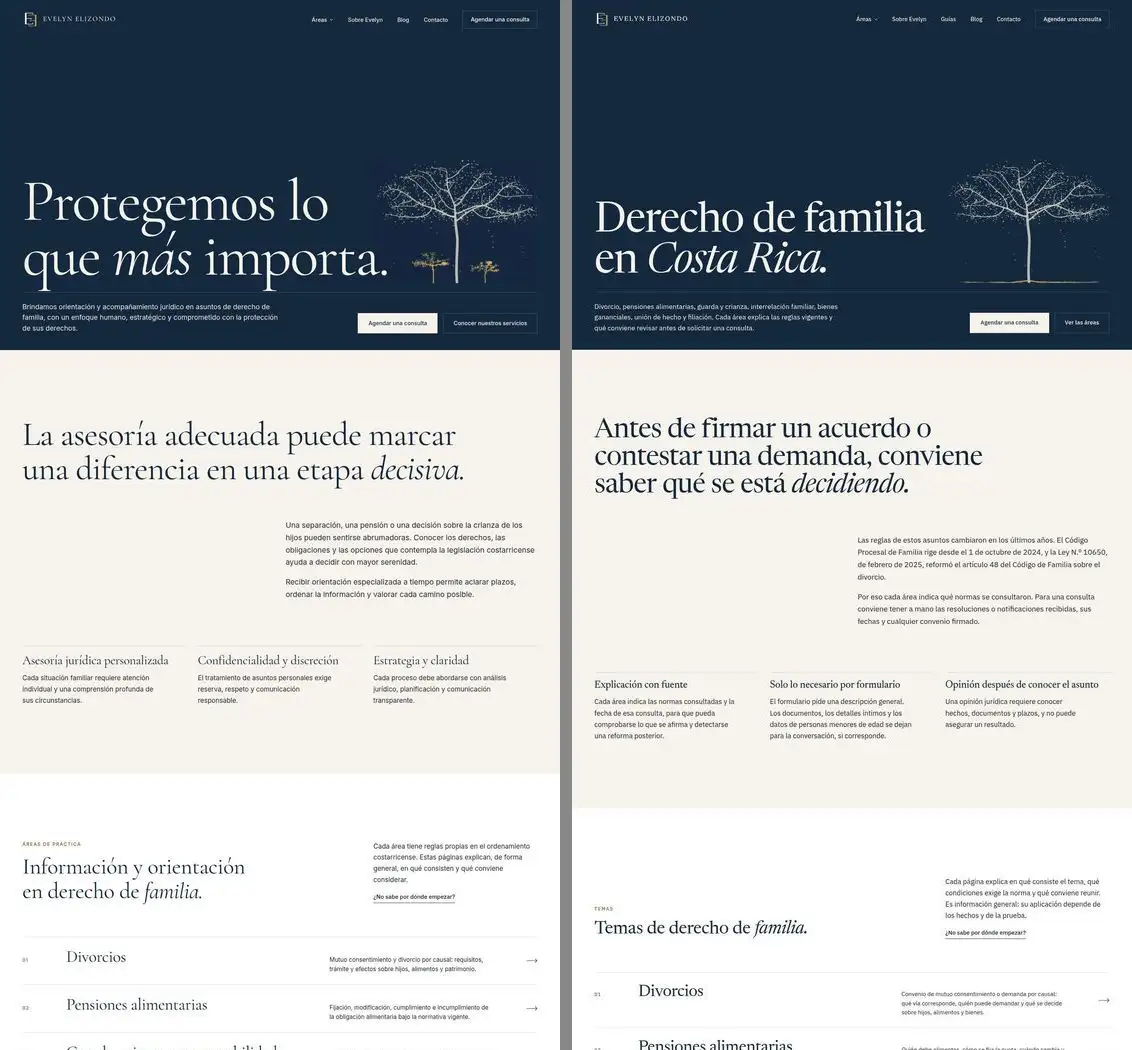
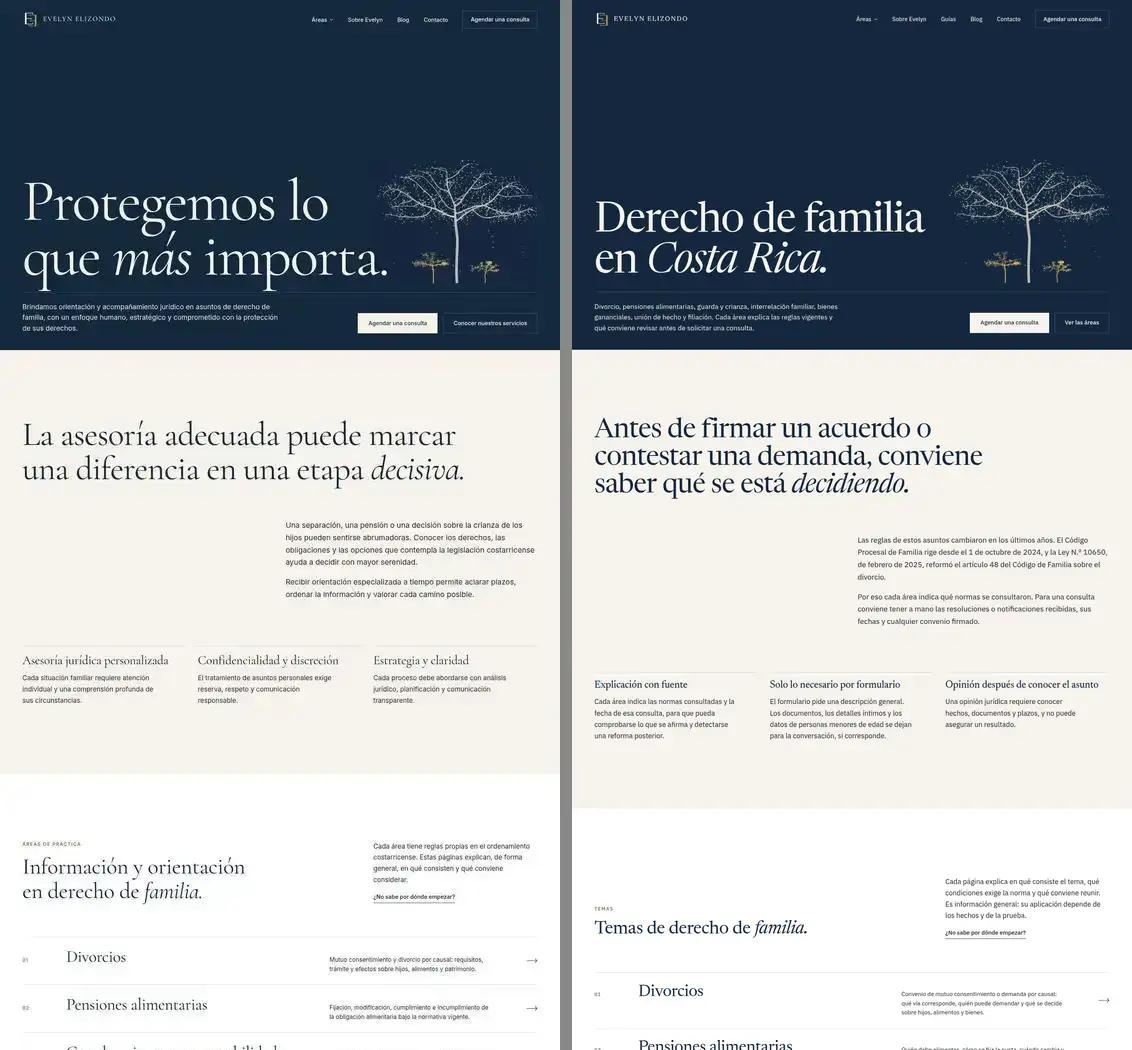
Restaura el árbol grande con dos jóvenes y corrige su crecimiento lento
- Vuelve a la composición de Crecer por decisión del propietario, tras comparar
  en pantalla la alternativa de un solo árbol con raíces.
- Regenera la imagen estática y las capturas de la portada.
- El árbol crece en el mismo tiempo con pocos cuadros por segundo: el tope por
  cuadro de 0,1 s lo ralentizaba en equipos lentos. Añade prueba de regresión.
- Actualiza decisiones, riesgos e informe final.

Changed region(s): [[0.8657, 0.2438, 0.9585, 0.2743]]

diff --git a/src/scripts/arboles/bosque.ts b/src/scripts/arboles/bosque.ts
@@ -1,4 +1,4 @@
-// Árbol de copa ancha con raíces visibles. Toda la forma se genera por código.
+// Árbol de copa ancha y dos árboles jóvenes bajo su sombra. Toda la forma se genera por código.
 // No importa three.js: se ejecuta en un Worker para no bloquear la página.
 type V3 = [number, number, number];
 export type Tramo = { a: V3; b: V3; r0: number; r1: number; nace: number; dur: number; tono: number };
@@ -132,34 +132,18 @@ function crearArbol({ semilla, atractores, hojasPorPunta, tono }: Opciones): Bos
   return { tramos, hojas };
 }
 
-// Raíces superficiales que salen del tronco y se ramifican a ras de suelo.
-function crearRaices(semilla: number): Bosque {
-  const r = azar(semilla);
-  const tramos: Tramo[] = [];
-  const hojas: Hoja[] = [];
-  const rama = (origen: V3, dir: number, largo: number, grosor: number, nace: number, nivel: number) => {
-    let p = origen;
-    let y = Math.max(0.004, origen[1]);
-    const pasos = 7;
-    for (let i = 0; i < pasos; i++) {
-      const f = 1 - i / pasos;
-      const q: V3 = [p[0] + dir * (largo / pasos), Math.max(0.002, y * 0.72 + (r() - 0.5) * 0.006), p[2] + (r() - 0.5) * 0.03];
-      const t = nace + (i / pasos) * 0.2;
-      tramos.push({ a: p, b: q, r0: grosor * f, r1: grosor * Math.max(0.12, f - 1 / pasos), nace: t, dur: 0.05, tono: 1 });
-      if (nivel < 2 && i > 0 && r() < 0.5) rama(q, dir * (0.75 + r() * 0.5), largo * (0.34 + r() * 0.22), grosor * f * 0.55, t + 0.015, nivel + 1);
-      p = q;
-      y = q[1];
-    }
-  };
-  for (const [dir, largo, grosor] of [[-1, 0.34, 0.0062], [1, 0.38, 0.0066], [-1, 0.22, 0.0046], [1, 0.25, 0.0048], [-1, 0.13, 0.0034], [1, 0.15, 0.0034]] as const) {
-    rama([dir * 0.006, 0.012 + r() * 0.012, (r() - 0.5) * 0.012], dir, largo, grosor, r() * 0.05, 0);
+// Un árbol que resguarda a dos árboles jóvenes, que empiezan a crecer después.
+export function crearBosque(pequena: boolean): Bosque {
+  const grande = crearArbol({ semilla: 31, atractores: pequena ? 190 : 300, hojasPorPunta: pequena ? 5 : 8, tono: 0 });
+  const jovenes: [number, number, number, number][] = [[-0.2, 0.25, 12, 0.32], [0.23, 0.18, 47, 0.44]];
+  const tramos = [...grande.tramos];
+  const hojas = [...grande.hojas];
+  for (const [x, esc, semilla, inicio] of jovenes) {
+    const j = crearArbol({ semilla, atractores: 60, hojasPorPunta: 6, tono: 1 });
+    const m = (v: V3): V3 => [v[0] * esc + x, v[1] * esc, v[2] * esc + 0.02];
+    const t = (v: number) => inicio + v * (1 - inicio);
+    for (const q of j.tramos) tramos.push({ ...q, a: m(q.a), b: m(q.b), r0: q.r0 * esc * 1.5, r1: q.r1 * esc * 1.5, nace: t(q.nace), dur: q.dur * (1 - inicio) });
+    for (const h of j.hojas) hojas.push({ ...h, p: m(h.p), nace: t(h.nace), tam: h.tam * 0.74, tono: 1 });
   }
   return { tramos, hojas };
-}
-
-// Un solo árbol: raíces que se extienden y ramas que se cruzan. No fija cuántas personas forman una familia.
-export function crearBosque(pequena: boolean): Bosque {
-  const copa = crearArbol({ semilla: 31, atractores: pequena ? 190 : 300, hojasPorPunta: pequena ? 5 : 8, tono: 0 });
-  const raices = crearRaices(47);
-  return { tramos: [...copa.tramos, ...raices.tramos], hojas: copa.hojas };
 }

diff --git a/src/scripts/arboles/escena.ts b/src/scripts/arboles/escena.ts
@@ -44,7 +44,7 @@ export function iniciarEscena(o: Opciones): Control | null {
   }
 
   // Estado de solo lectura para las pruebas automáticas.
-  const estadoPublico = { frames: 0, fps: 0, calidad: 1 };
+  const estadoPublico = { frames: 0, fps: 0, calidad: 1, tiempo: 0 };
   (window as unknown as { __arbol: typeof estadoPublico }).__arbol = estadoPublico;
 
   let arbol: Arbol | null = null;
@@ -128,7 +128,8 @@ export function iniciarEscena(o: Opciones): Control | null {
   const bucle = () => {
     requestAnimationFrame(bucle);
     if (!visible || document.hidden || !arbol) { delta(); return; }
-    const dt = Math.min(delta(), 0.1);
+    // Tope alto: con pocos cuadros por segundo, el árbol debe crecer en el mismo tiempo, no más despacio.
+    const dt = Math.min(delta(), 0.5);
     if (pausado) return;
     acumulado += dt; cuenta++;
     if (acumulado >= 0.5) {
@@ -143,6 +144,7 @@ export function iniciarEscena(o: Opciones): Control | null {
       acumulado = 0; cuenta = 0;
     }
     t += dt;
+    estadoPublico.tiempo = t;
     const k = 1 - Math.exp(-dt * 5);
     progreso += (scrollObjetivo() - progreso) * k;
     cx += (mx - cx) * k;

diff --git a/tests/arbol.spec.ts b/tests/arbol.spec.ts
@@ -169,3 +169,19 @@ test('el laboratorio ya no existe y three.js no llega a otras páginas', async (
   await page.goto('/servicios', { waitUntil: 'networkidle' });
   expect(await page.evaluate(() => (window as any).__gl === true)).toBe(false);
 });
+
+test('con pocos cuadros por segundo el árbol crece en el mismo tiempo', async ({ page }) => {
+  // Limita requestAnimationFrame a unos 4 cuadros por segundo, como un equipo muy lento.
+  await page.addInitScript(() => {
+    const original = window.requestAnimationFrame.bind(window);
+    window.requestAnimationFrame = cb => original(() => { setTimeout(() => original(cb), 240); }) as unknown as number;
+  });
+  await page.goto('/');
+  await page.waitForFunction(() => (window as any).__arbol?.frames > 0, null, { timeout: 60000 });
+  const inicio = await page.evaluate(() => (window as any).__arbol.tiempo);
+  await page.waitForTimeout(4000);
+  const fin = await page.evaluate(() => (window as any).__arbol.tiempo);
+  // Con un tope de 0,1 s por cuadro avanzaría unos 1,6 s en estos 4 s.
+  expect(fin - inicio).toBeGreaterThan(3);
+});
+

diff --git a/docs/auditoria-evelyn/informe-final.md b/docs/auditoria-evelyn/informe-final.md
@@ -83,7 +83,7 @@ Más 63 fuentes externas, de ellas 5 no verificables, en [fuentes-verificadas.js
 
 - Encabezados interiores claros: el azul oscuro queda para la portada y el pie.
 - Escala tipográfica más contenida, con columna de lectura de 68 caracteres.
-- **Árbol:** un solo árbol con raíces, en vez de uno grande con dos jóvenes, que se leían como progenitor e hijos. El concepto *Crecer* se mantiene. **Cambia algo que tú elegiste:** si prefieres la composición anterior, se revierte en `src/scripts/arboles/bosque.ts`.
+- **Árbol:** se conserva el árbol grande con dos jóvenes del concepto *Crecer*, por decisión del propietario tras ver en pantalla la alternativa de un solo árbol con raíces. Queda pendiente confirmar que no sugiere un único tipo de familia. Además, el crecimiento ya no se ralentiza en equipos con pocos cuadros por segundo.
 - Marca regenerada con la nueva fuente. La imagen estática del árbol tiene fondo transparente, sin el rectángulo que se notaba.
 - Comparaciones antes y después (izquierda y derecha) en [capturas/](capturas/).
 
@@ -123,7 +123,9 @@ También: cuerpo limitado de verdad, sin archivos ni JSON, TLS obligatorio, asun
 | Linter | No hay ninguno configurado: no se ejecutó |
 | Matriz jurídica | 1061 afirmaciones, 0 errores, 0 avisos |
 | Chrome, escritorio y móvil, 2 pasadas | 301 superadas, 47 omitidas, 0 fallidas en cada una |
+| Chrome, tras restaurar el árbol, 1 pasada | 303 superadas, 47 omitidas, 0 fallidas |
 | Firefox, WebKit y iPhone emulado | 447 superadas, 74 omitidas, **1 fallida** |
+| Pruebas del árbol en Firefox y WebKit, tras restaurarlo | 18 superadas |
 | `npm audit` | 0 vulnerabilidades |
 | Auditoría de identidad | Sin referencias residuales |
 

diff --git a/docs/auditoria-evelyn/decisiones.md b/docs/auditoria-evelyn/decisiones.md
@@ -17,7 +17,7 @@ Tomadas sin consultar porque el encargo así lo pide. Todas se pueden revertir c
 | `noindex` en páginas de etiqueta y fuera del sitemap | Son listados breves que compiten con el blog y las categorías | Indexarlas |
 | Newsreader e IBM Plex Sans | No hay licencias de Tiempos, Söhne ni Lyon en el repositorio y no se compra nada. Ambas tienen licencia OFL | Usar archivos comerciales |
 | Encabezado interior claro | Las páginas de lectura larga no necesitan un bloque oscuro; el oscuro queda para la portada y el pie | Mantener navy en todas |
-| Árbol único con raíces en lugar de árbol grande y dos jóvenes | Tres árboles se leían como progenitor e hijos: una sola forma de familia. Se mantiene el concepto *Crecer* | Conservar la composición anterior |
+| Árbol grande con dos jóvenes | Decisión del propietario tras comparar en pantalla. La alternativa de un solo árbol con raíces se probó y se descartó; consta en el commit `61dc289` | Árbol único con raíces, propuesto para no sugerir un solo tipo de familia |
 | Orientador: «Tema para revisar» y sin consulta en el resultado de riesgo | Señala qué leer. Ante un riesgo, lo prioritario es el aviso y poder salir | «Le puede servir» con invitación a agendar |
 | Publicación en `main`: no se hace | Faltan revisión legal, datos reales, SMTP y dominio | Fusionar por tener pruebas en verde |
 | Vigilancia programada como temporizador en `ops/`, sin instalar | Instalarlo cambia la configuración del equipo. Requiere decidir dónde corre | Crear tareas persistentes por cuenta propia |

diff --git a/docs/auditoria-evelyn/registro-de-riesgos.md b/docs/auditoria-evelyn/registro-de-riesgos.md
@@ -18,4 +18,4 @@
 | Carga intermitente de la portada en WebKit (1 de 5 repeticiones) | Media | Sin causa demostrada; puede ser WebGL por software | **Probar en Safari real** |
 | Proyecto 23.982 aprobado después de la consulta | Alta | No se menciona. La vigilancia detectaría el cambio en el Código de Familia | Volver a comprobar antes de publicar |
 | Línea 1147 del PANI sin lectura directa de la fuente | Media | Publicada sin horario; el sitio oficial bloqueó la lectura automática | Confirmar a mano |
-
+| El árbol grande con dos jóvenes puede leerse como un único modelo de familia | Baja | Es una metáfora visual, sin texto que lo afirme. Se conserva por decisión del propietario | Aceptado por el propietario |
